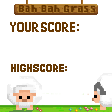
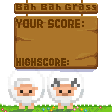
redid home and over screens

diff --git a/src/js/overScene.js b/src/js/overScene.js
@@ -21,12 +21,11 @@ export function draw() {
   imageMode(CENTER);
 
   const yOffset = max(sin((-frameCount * 40) / 600) * 5); //hovering text animation
-  // text(shared_scores.currentScore, 112, yOffset + 190);
-  drawNumber(shared_scores.currentScore, 35, yOffset + 95, 43);
+  drawNumber(shared_scores.currentScore, 68, yOffset + 85, 43);
+  // drawNumber(shared_scores.currentScore, 35, yOffset + 95, 43);
 
-  // textSize(8);
-  // text("Highscore: " + shared_scores.scores[0], 112, 220);
-  drawNumber(shared_scores.scores[0], 145, 135, 15);
+  drawNumber(shared_scores.scores[0], 150, 123, 15);
+  // drawNumber(shared_scores.scores[0], 145, 135, 15);
 
   pop();
 
@@ -34,12 +33,12 @@ export function draw() {
   if (mouseIsPressed) {
     push();
     noSmooth();
-    image(images.buttons.play_down, 100, 160, 62, 34);
+    image(images.buttons.play_down, 155, 180, 62, 34);
     pop();
   } else {
     push();
     noSmooth();
-    image(images.buttons.play_up, 100, 160, 62, 34);
+    image(images.buttons.play_up, 155, 180, 62, 34);
     pop();
   }
 }
